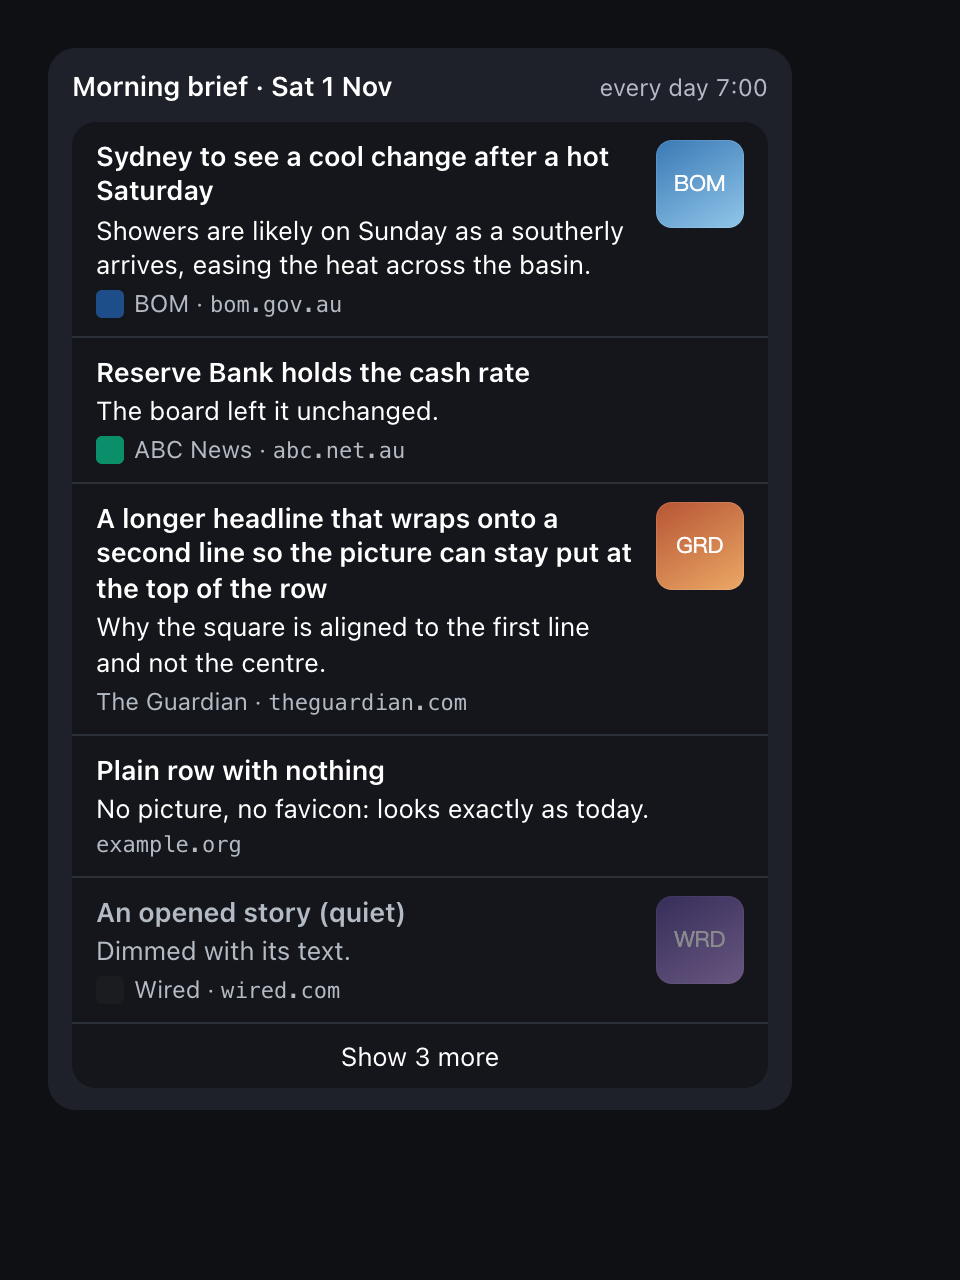
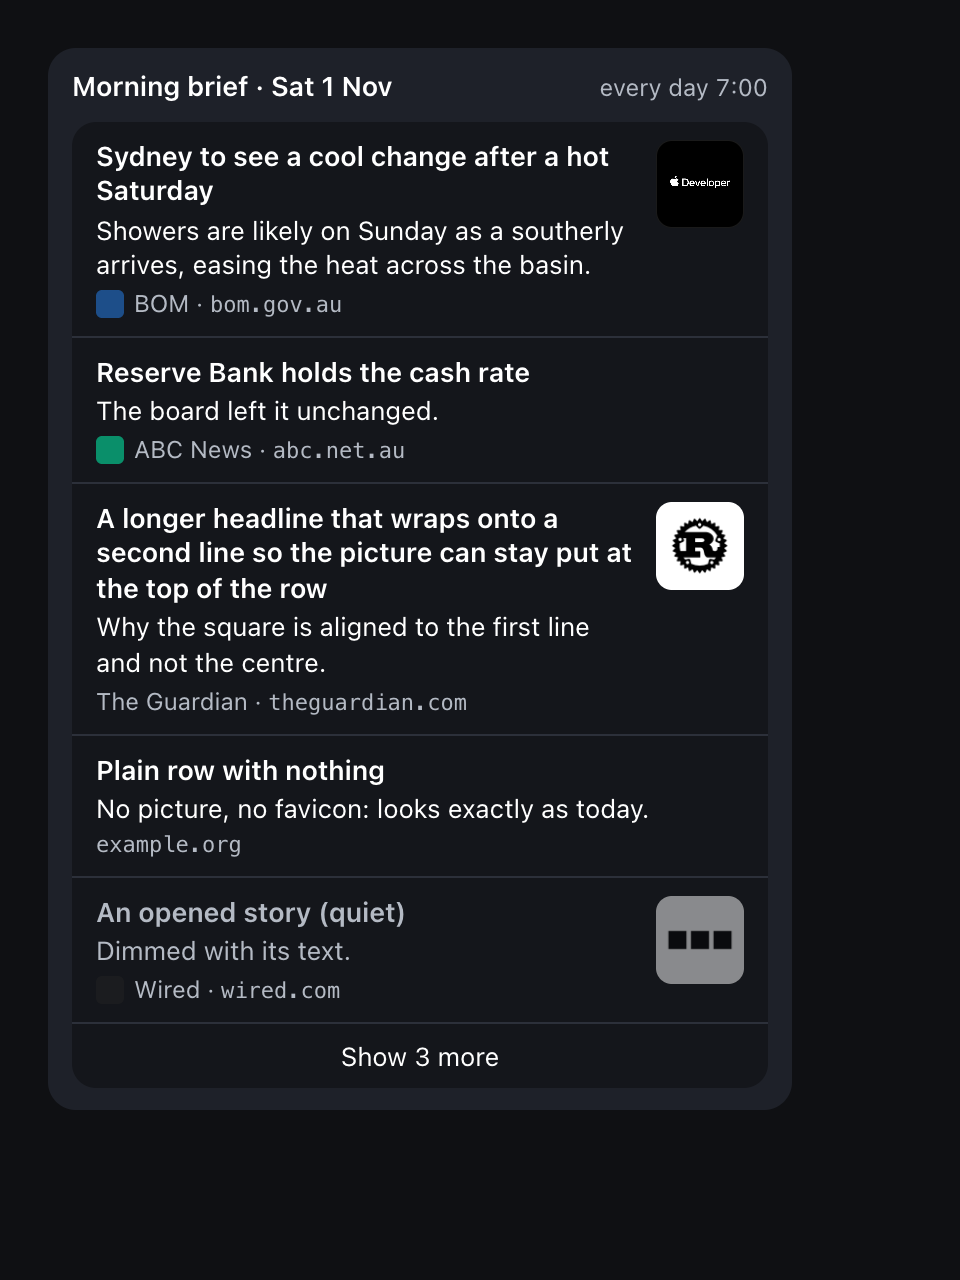
News pictures: gate function with test for the setting off, real fetched pictures in the shots

Changed region(s): [[0.6562, 0.6875, 0.7812, 0.7812], [0.6562, 0.375, 0.7812, 0.4688], [0.6562, 0.0938, 0.7812, 0.1875]]

diff --git a/apps/desktop/src/shared/link-preview.test.ts b/apps/desktop/src/shared/link-preview.test.ts
@@ -1,6 +1,6 @@
 import assert from 'node:assert/strict'
 import { test } from 'node:test'
-import { isFetchableUrl, isPrivateHost, NO_PREVIEW, parseHead, PreviewCache } from './link-preview.ts'
+import { fetchTargets, isFetchableUrl, isPrivateHost, NO_PREVIEW, parseHead, PreviewCache } from './link-preview.ts'
 
 const base = 'https://news.example.com/a/b.html'
 
@@ -30,6 +30,11 @@ test('private hosts are refused', () => {
   assert.ok(!isFetchableUrl('http://localhost:3000/'))
   assert.ok(!isFetchableUrl('https://user:pw@example.com/'))
   assert.ok(isFetchableUrl('https://example.com/x'))
+})
+
+test('setting off: nothing is asked for', () => {
+  assert.deepEqual(fetchTargets(['https://a.com/', 'https://a.com/', 'https://b.com/'], false), [])
+  assert.deepEqual(fetchTargets(['https://a.com/', 'https://a.com/', ''], true), ['https://a.com/'])
 })
 
 test('cache: hit, negative hit, expiry, cap', () => {

diff --git a/apps/desktop/src/renderer/lib/link-preview.ts b/apps/desktop/src/renderer/lib/link-preview.ts
@@ -1,5 +1,5 @@
 import { useEffect, useState } from 'react'
-import type { LinkPreview } from '@shared/link-preview'
+import { fetchTargets, type LinkPreview } from '@shared/link-preview'
 import { prefs, usePref } from './prefs'
 
 // Pictures for News rows. The main process fetches and caches them; this only asks, once per URL per window.
@@ -28,7 +28,7 @@ export function useLinkPictures(isOwner: boolean): boolean {
 export function usePrefetch(urls: string[], enabled: boolean) {
   const key = urls.join('\n')
   useEffect(() => {
-    if (enabled) for (const u of key.split('\n')) if (u) void loadPreview(u)
+    for (const u of fetchTargets(key.split('\n'), enabled)) void loadPreview(u)
   }, [key, enabled])
 }
 

diff --git a/apps/desktop/src/shared/link-preview.ts b/apps/desktop/src/shared/link-preview.ts
@@ -102,6 +102,11 @@ export function isFetchableUrl(url: string): boolean {
   }
 }
 
+/** The links worth asking the main process about: none at all when pictures are off, so no call is made. */
+export function fetchTargets(urls: string[], enabled: boolean): string[] {
+  return enabled ? [...new Set(urls.filter(Boolean))] : []
+}
+
 /** How long a result, a negative one included, is trusted. */
 export const CACHE_TTL_MS = 7 * 24 * 3600 * 1000
 export const CACHE_MAX_ENTRIES = 400
